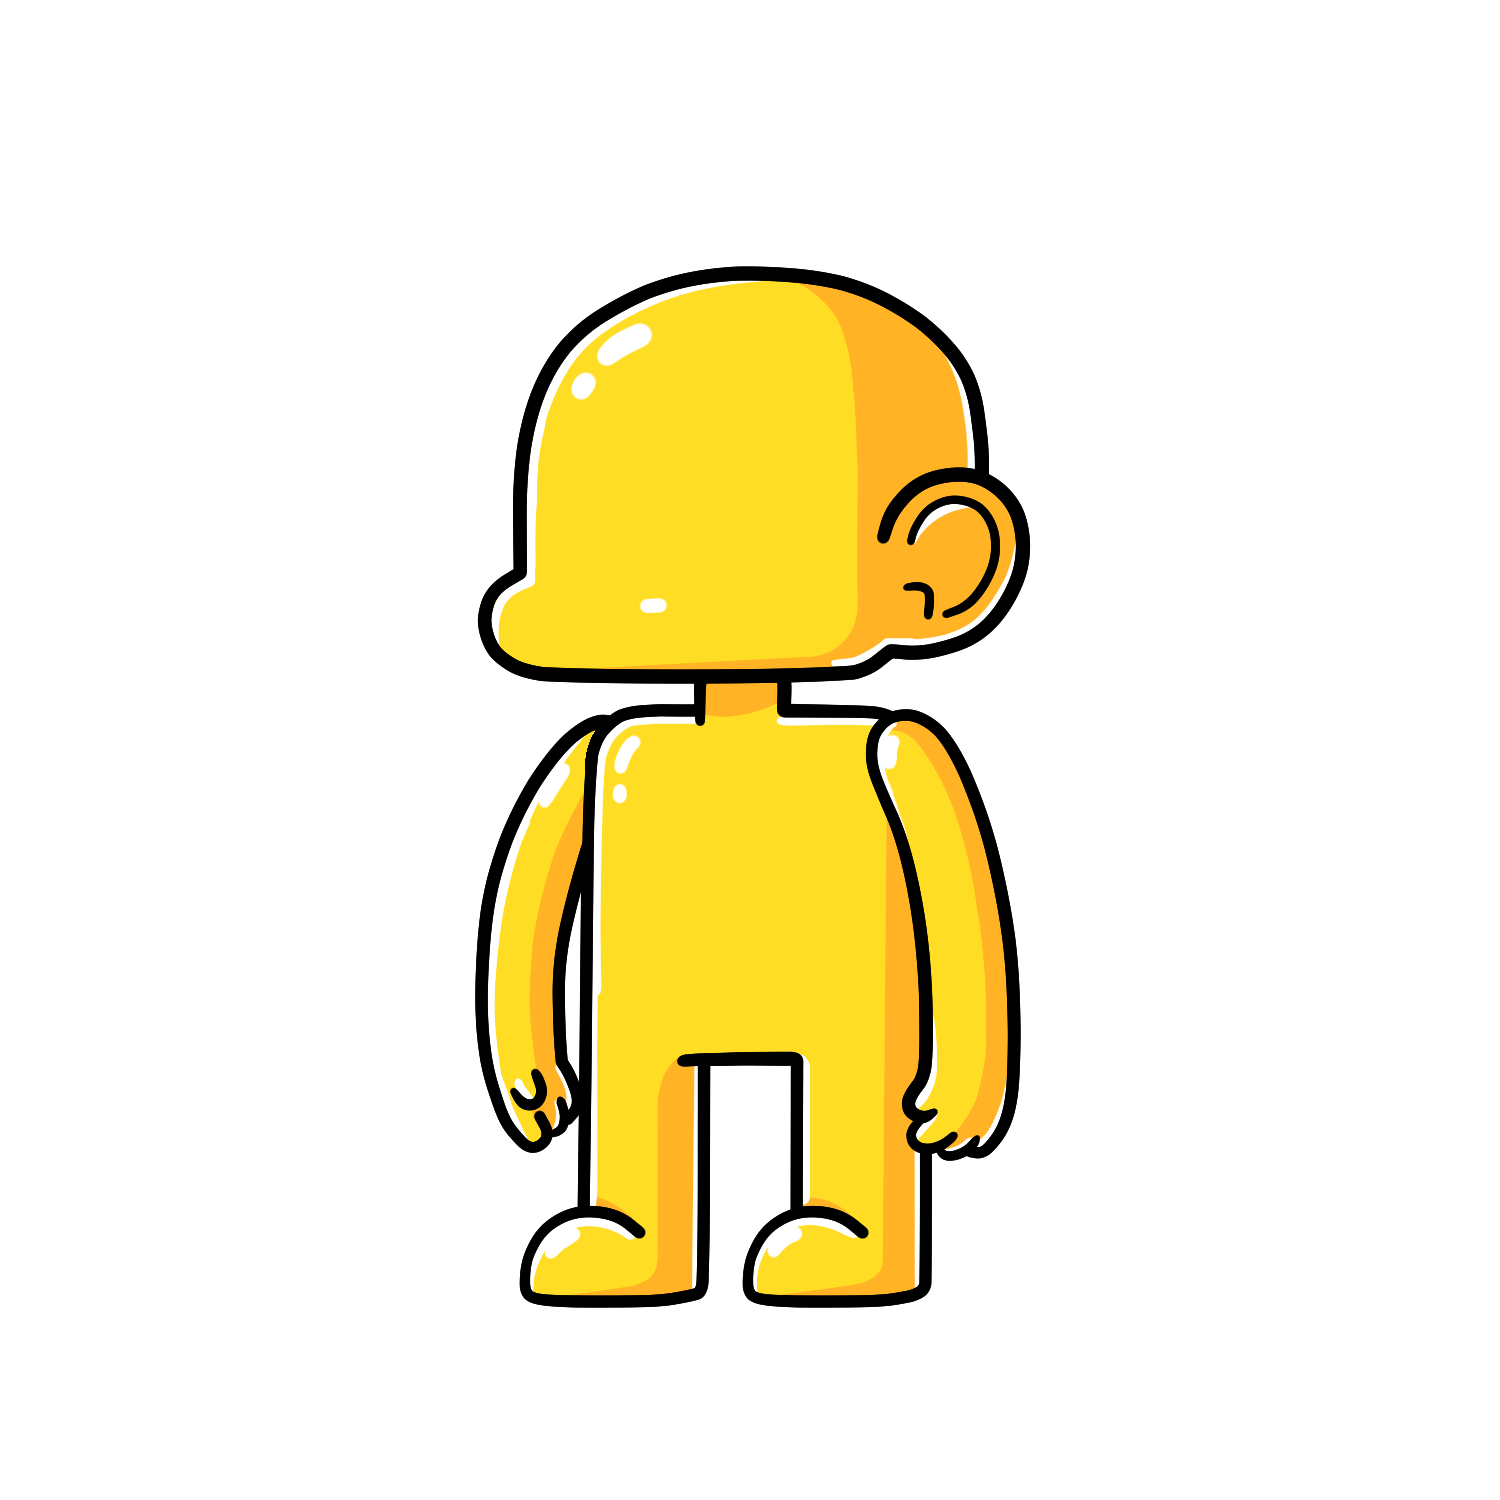
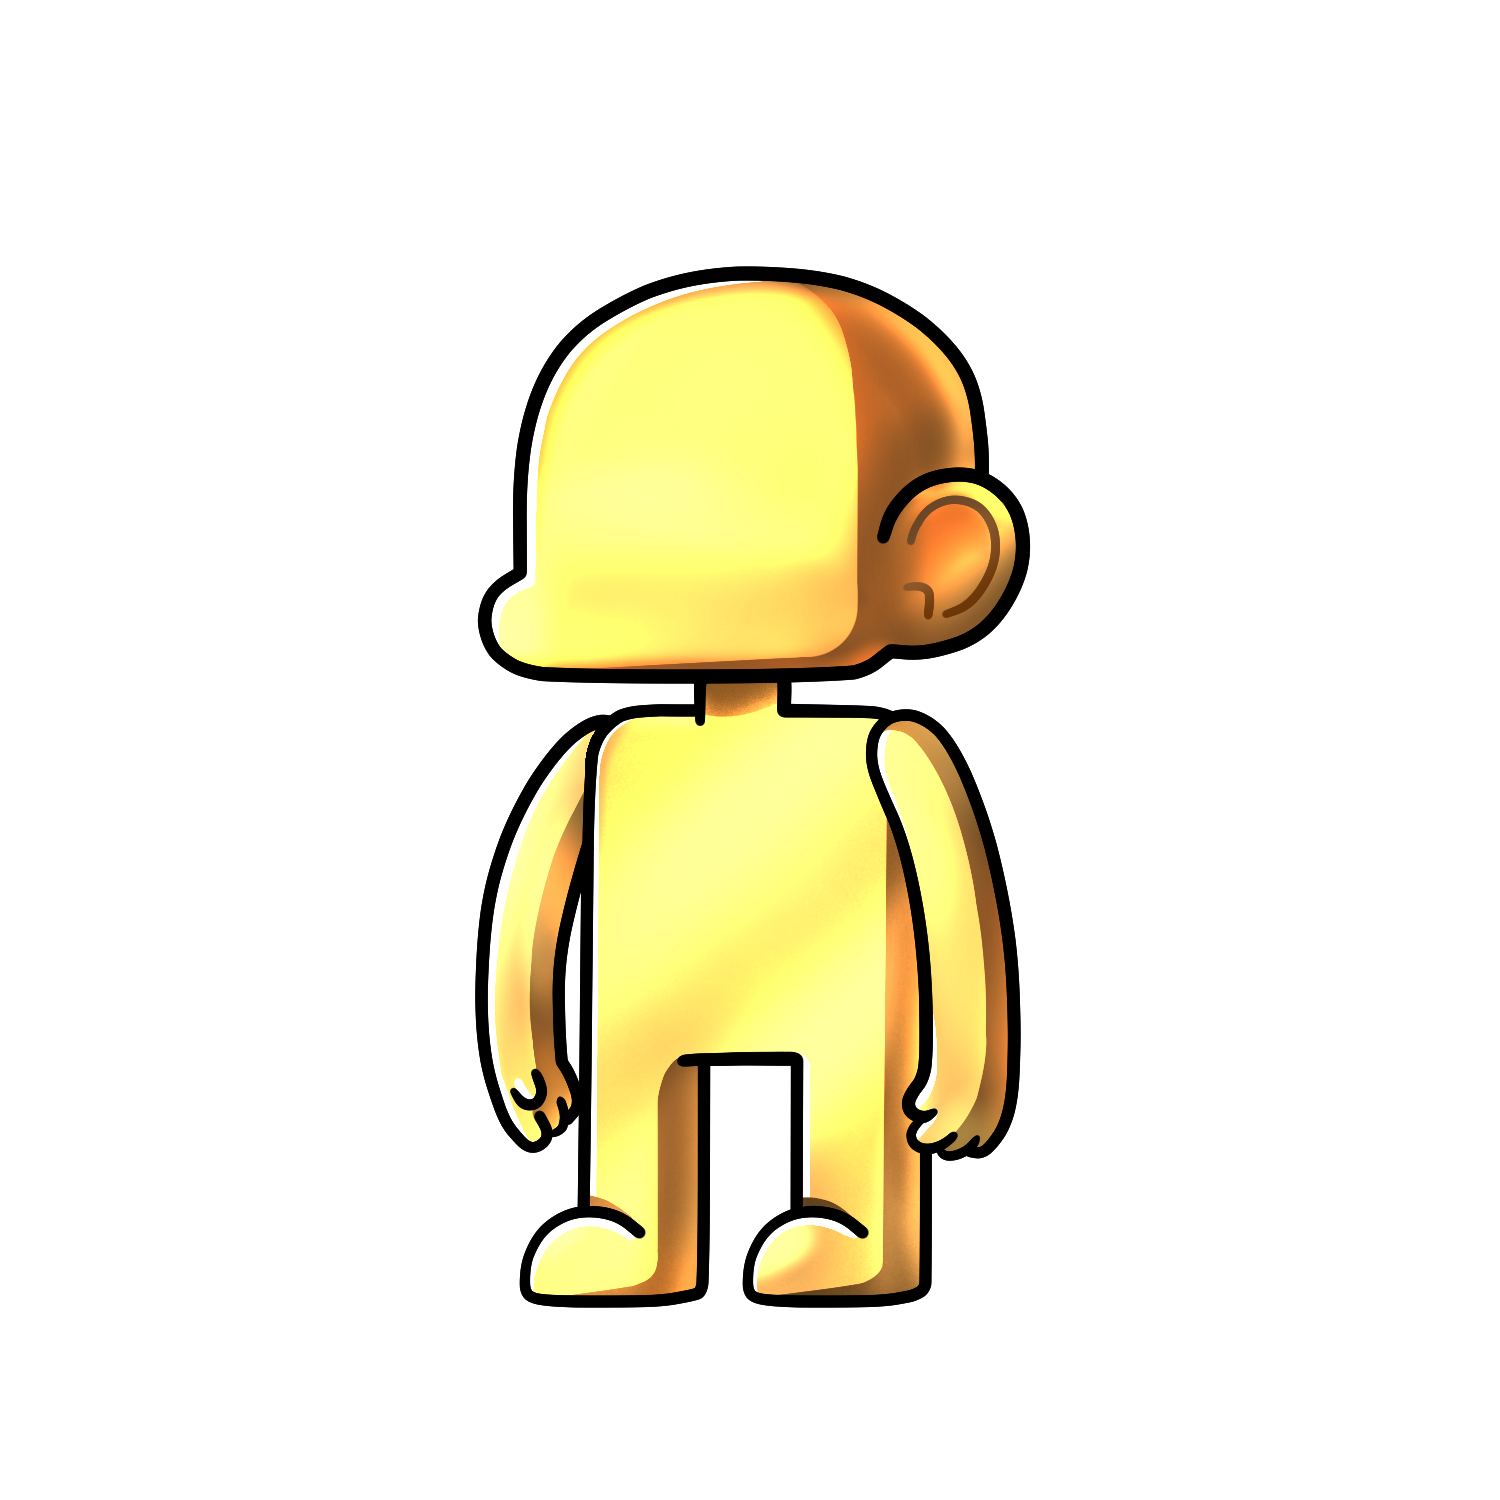
body 체인지

Changed region(s): [[0.3067, 0.184, 0.6747, 0.8893]]

diff --git a/kidult/src/event/HandlerEvent.js b/kidult/src/event/HandlerEvent.js
@@ -64,12 +64,7 @@ function handleBodyImg(e) {
       document.querySelector(".default-arms").src =
         "/assets/image/default-arms/gold-arms-in.png";
       break;
-    case "/assets/image/body/real-gold-out.png":
-      document.querySelector(".default-body").src =
-        "/assets/image/default-arms/real-gold-body-in.png";
-      document.querySelector(".default-arms").src =
-        "/assets/image/default-arms/real-gold-arms-in.png";
-      break;
+
     case "/assets/image/body/red-out.png":
       document.querySelector(".default-body").src =
         "/assets/image/default-arms/red-body-in.png";

diff --git a/kidult/src/Sotre.js b/kidult/src/Sotre.js
@@ -11,7 +11,6 @@ let bodyimg = createSlice({
     { src: "assets/image/body/dummy-black-out.png", name: "dummy-black" },
     { src: "assets/image/body/dummy-white-out.png", name: "dummy-white" },
     { src: "assets/image/body/gold-out.png", name: "gold" },
-    { src: "assets/image/body/real-gold-out.png", name: "real-gold" },
     { src: "assets/image/body/red-out.png", name: "red" },
   ],
 });
